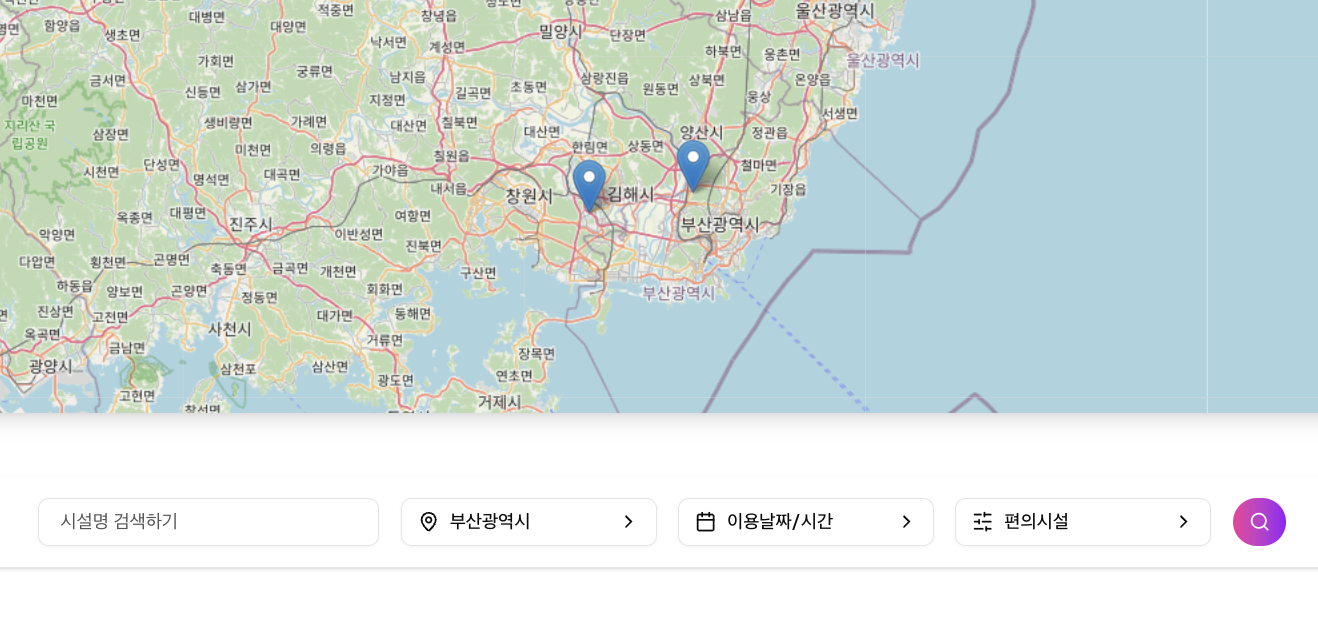
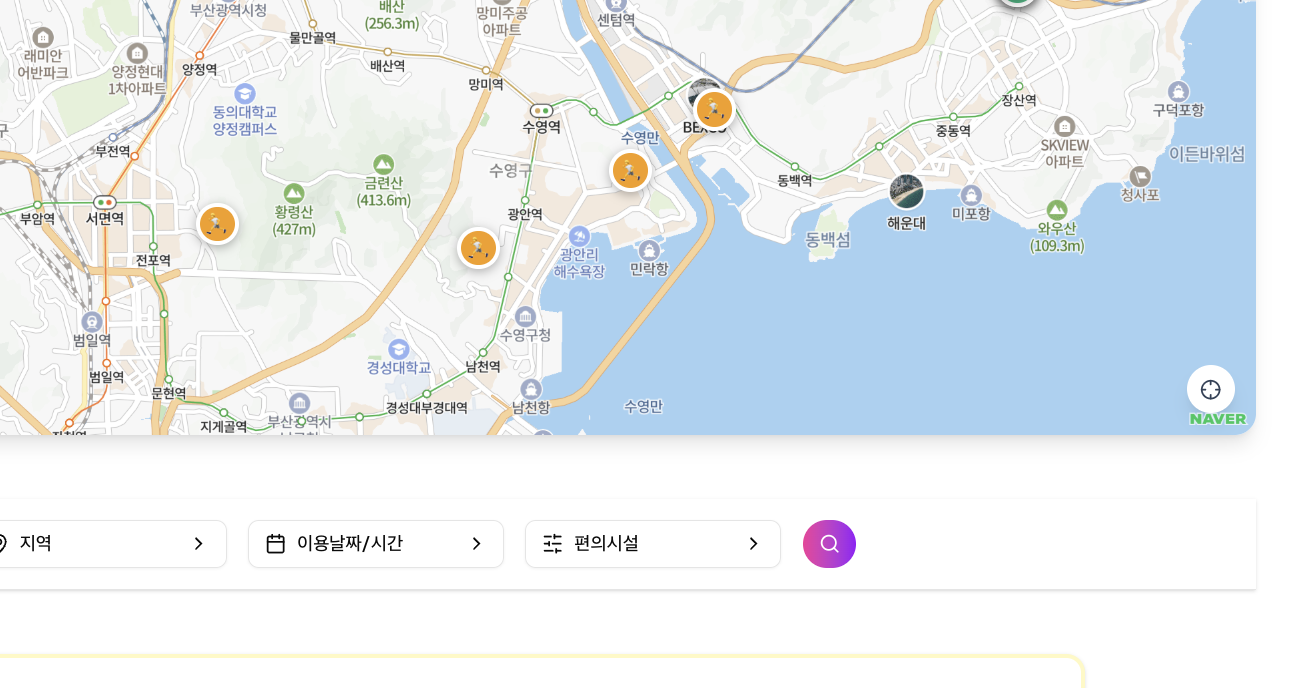
이용가이드 사진 4개 변경 + 시설정보수정요청의 사진 업로드 오류(Loader2누락) 문제해결 + 시설정보수정요청의 진행단계 UI정렬 문제 해결

diff --git a/app/facility-request/page.tsx b/app/facility-request/page.tsx
@@ -10,7 +10,7 @@ import { Select, SelectContent, SelectItem, SelectTrigger, SelectValue } from "@
 import { Card, CardContent, CardDescription, CardHeader, CardTitle } from "@/components/ui/card"
 import { Checkbox } from "@/components/ui/checkbox"
 import { Label } from "@/components/ui/label"
-import { CheckCircle2, Upload, X, User, Building2, ChevronRight, ChevronLeft } from "lucide-react"
+import { CheckCircle2, Upload, X, User, Building2, ChevronRight, ChevronLeft, Loader2 } from "lucide-react"
 import LottieLoader from "@/components/loading-animation"
 
 type UserType = "user" | "facility_manager" | null
@@ -723,39 +723,46 @@ export default function FacilityRequestPage() {
           </p>
         </div>
 
-        {/* 진행 단계 표시 */}
-        <div className="mb-8">
+        {/* 진행 단계 표시 (수정됨: 텍스트를 원 안으로 이동하여 정렬 문제 해결) */}
+        <div className="mb-12">
           <div className="flex justify-between items-center">
-            {[1, 2, 3, 4].map((step) => (
-              <div key={step} className="flex items-center flex-1">
-                <div
-                  className={`w-10 h-10 rounded-full flex items-center justify-center font-semibold ${
-                    step === currentStep
-                      ? "bg-purple-600 text-white"
-                      : step < currentStep
-                      ? "bg-green-500 text-white"
-                      : "bg-gray-200 text-gray-600"
-                  }`}
-                  aria-label={`단계 ${step}`}
-                >
-                  {step < currentStep ? <CheckCircle2 className="w-6 h-6" /> : step}
+            {["본인 인증", "기본 정보", "접근성 정보", "사진/소개"].map((label, index) => {
+              const step = index + 1;
+              return (
+                <div key={step} className={`flex items-center ${step < 4 ? "flex-1" : ""}`}>
+                  <div className="relative flex flex-col items-center group">
+                    <div
+                      className={`w-10 h-10 rounded-full flex items-center justify-center font-semibold z-10 transition-colors duration-300 ${
+                        step === currentStep
+                          ? "bg-purple-600 text-white shadow-lg scale-110"
+                          : step < currentStep
+                          ? "bg-green-500 text-white"
+                          : "bg-gray-200 text-gray-600"
+                      }`}
+                      aria-label={`단계 ${step}`}
+                    >
+                      {step < currentStep ? <CheckCircle2 className="w-6 h-6" /> : step}
+                    </div>
+                    
+                    {/* 텍스트: 절대 위치로 고정 */}
+                    <div className={`absolute top-12 w-32 text-center text-sm font-medium ${
+                      step === currentStep ? "text-purple-700 font-bold" : "text-muted-foreground"
+                    }`}>
+                      {label}
+                    </div>
+                  </div>
+
+                  {step < 4 && (
+                    <div
+                      className={`flex-1 h-1 mx-2 transition-colors duration-500 ${
+                        step < currentStep ? "bg-green-500" : "bg-gray-200"
+                      }`}
+                      aria-hidden="true"
+                    />
+                  )}
                 </div>
-                {step < 4 && (
-                  <div
-                    className={`flex-1 h-1 mx-2 ${
-                      step < currentStep ? "bg-green-500" : "bg-gray-200"
-                    }`}
-                    aria-hidden="true"
-                  />
-                )}
-              </div>
-            ))}
-          </div>
-          <div className="flex justify-between mt-2 text-sm text-muted-foreground">
-            <span>본인 인증</span>
-            <span>기본 정보</span>
-            <span>접근성 정보</span>
-            <span>사진/소개</span>
+              );
+            })}
           </div>
         </div>
 
@@ -1109,4 +1116,3 @@ export default function FacilityRequestPage() {
     </div>
   )
 }
-
